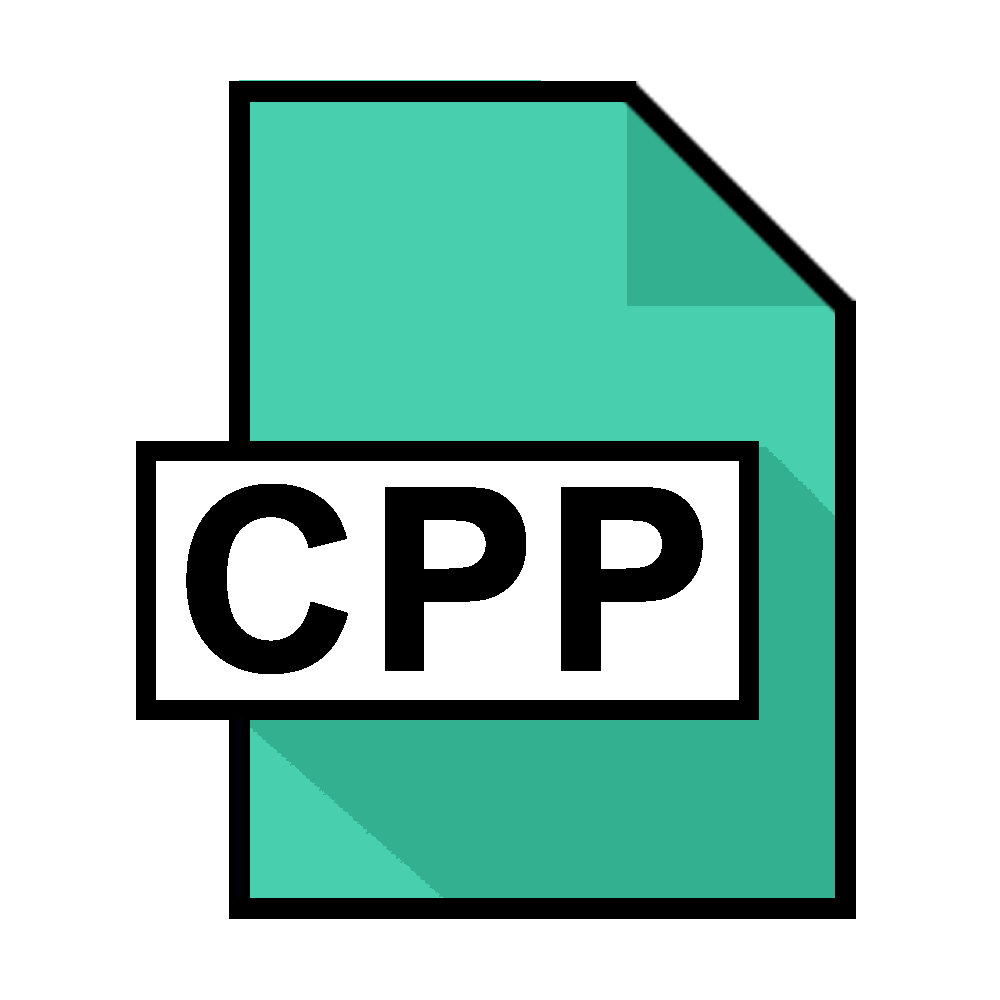
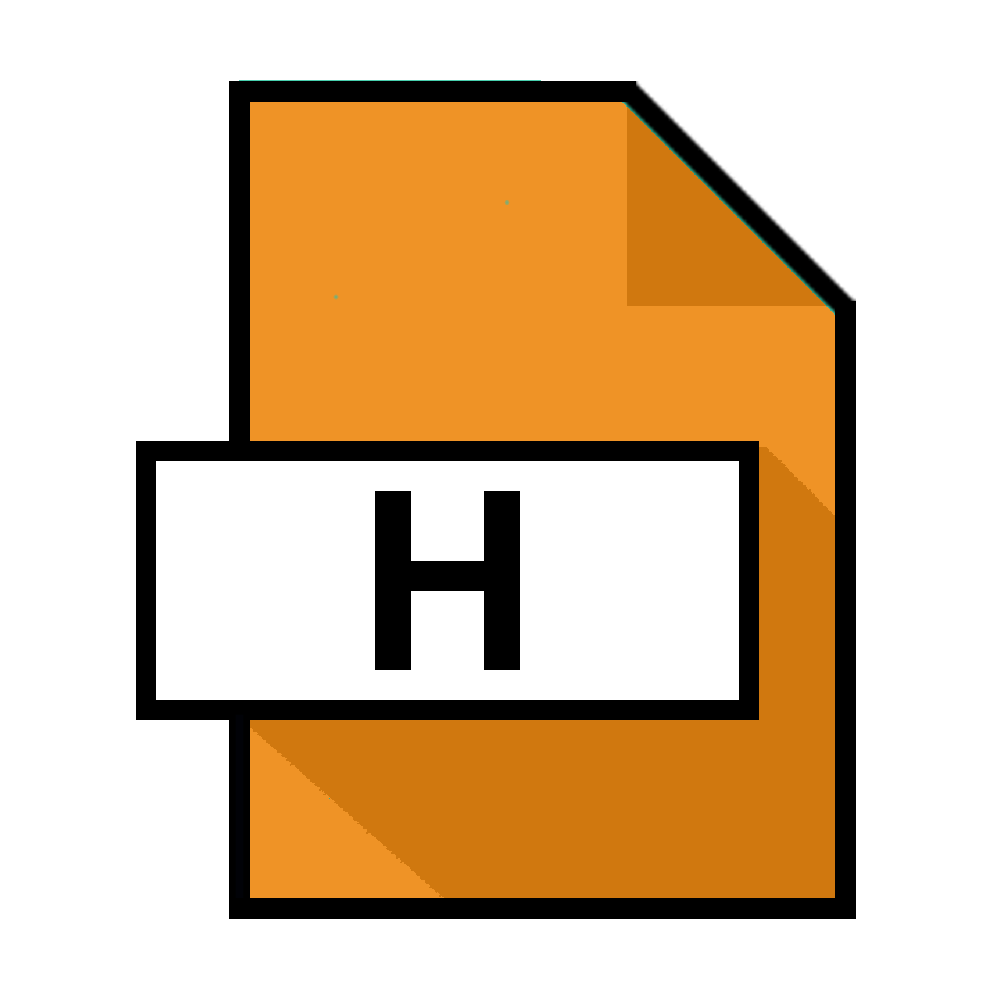
Fixed some Bugs, Implemented .h file generation as part of getCPP code function.

diff --git a/Widgets/medeawindow.cpp b/Widgets/medeawindow.cpp
@@ -2786,8 +2786,11 @@ void MedeaWindow::gotCPPForComponent(bool success, QString errorString, QString 
     if(!success){
         QMessageBox::critical(this, "XSL Transformation for CPP Error", errorString, QMessageBox::Ok);
     }else{
-        popupMultiLine->setWindowTitle(componentName + "Impl.cpp");
-        txtMultiLine->setPlainText(code);
+        QIcon icon = Theme::theme()->getImage("Actions", "getCPP");
+        if(componentName.endsWith(".h")){
+            icon = Theme::theme()->getImage("Actions", "getH");
+        }
+        addCodeViewerTab(componentName,icon, code, false);
         popupMultiLine->show();
     }
 }
@@ -3102,6 +3105,18 @@ void MedeaWindow::executeJenkinsDeployment()
     if(jenkinsManager){
         JenkinsStartJobWidget* jenkinsSJ = new JenkinsStartJobWidget(this, jenkinsManager);
         jenkinsSJ->requestJob(jobName, exportFile);
+    }
+}
+
+void MedeaWindow::closeCodeTab(int tabID)
+{
+    QWidget* content = codeViewerTabWidget->widget(tabID);
+    codeViewerTabWidget->removeTab(tabID);
+    if(content){
+        delete content;
+    }
+    if(codeViewerTabWidget->count() == 0){
+        popupMultiLine->close();
     }
 }
 
@@ -4509,6 +4524,29 @@ void MedeaWindow::updateDataTable()
     updateRightMask();
 }
 
+void MedeaWindow::addCodeViewerTab(QString tabName, QIcon tabIcon, QString content, bool editable)
+{
+    //Text Edit Box
+    CodeEditor* codeEditor = new CodeEditor(this);
+    //make tab width mode civilized
+    codeEditor->setTabStopWidth(40);
+    //Make look purrdy!
+    codeEditor->setObjectName(QString::fromUtf8("txtMultiline"));
+    codeEditor->setPlainText(content);
+
+    codeEditor->setReadOnly(!editable);
+    int index = codeViewerTabWidget->addTab(codeEditor, tabIcon, tabName);
+
+}
+
+void MedeaWindow::removeAllCodeViewerTabs()
+{
+    while(codeViewerTabWidget->count() != 0){
+        emit codeViewerTabWidget->tabCloseRequested(0);
+    }
+    popupMultiLine->close();
+}
+
 
 void MedeaWindow::updateRecentProjectsWidgets(QString topFileName)
 {
@@ -4837,27 +4875,28 @@ void MedeaWindow::setupMultiLineBox()
     popupMultiLine->setModal(true);
     //remove the '?' from the title bar
     popupMultiLine->setWindowFlags(popupMultiLine->windowFlags() & (~Qt::WindowContextHelpButtonHint));
-    popupMultiLine->setWindowIcon(getIcon("Actions", "getCPP"));
-    //Sexy Layout Stuff
-    QGridLayout *gridLayout = new QGridLayout(popupMultiLine);
+    popupMultiLine->setWindowTitle("Code Viewer");
+    popupMultiLine->setMinimumSize(600,600);
 
-    //Text Edit Box
-    txtMultiLine = new CodeEditor();
-    //make tab width mode civilized
-    txtMultiLine->setTabStopWidth(40);
+    QVBoxLayout* vLayout = new QVBoxLayout();
+    popupMultiLine->setLayout(vLayout);
 
-    //Make look purrdy!
-    txtMultiLine->setObjectName(QString::fromUtf8("txtMultiline"));
-    gridLayout->addWidget(txtMultiLine, 0, 0, 1, 1);
+    codeViewerTabWidget = new QTabWidget(this);
+    vLayout->addWidget(codeViewerTabWidget, 1);
+    codeViewerTabWidget->setTabsClosable(true);
+    connect(codeViewerTabWidget, SIGNAL(tabCloseRequested(int)), this, SLOT(closeCodeTab(int)));
+
+
     QDialogButtonBox *buttonBox = new QDialogButtonBox();
     buttonBox->setObjectName(QString::fromUtf8("buttonBox"));
     buttonBox->setOrientation(Qt::Horizontal);
     buttonBox->setStandardButtons(QDialogButtonBox::Cancel|QDialogButtonBox::Ok);
-    gridLayout->addWidget(buttonBox, 1, 0, 1, 1);
+    vLayout->addWidget(buttonBox);
 
     //hook up OK/Cancel boxes
-    connect(buttonBox,SIGNAL(accepted()),this,SLOT(dialogAccepted()));
-    connect(buttonBox,SIGNAL(rejected()),this,SLOT(dialogRejected()));
+    connect(popupMultiLine, SIGNAL(rejected()), this, SLOT(dialogRejected()));
+    connect(buttonBox,SIGNAL(accepted()), this, SLOT(dialogAccepted()));
+    connect(buttonBox,SIGNAL(rejected()), this, SLOT(dialogRejected()));
 }
 
 
@@ -4873,13 +4912,12 @@ void MedeaWindow::dataTableDoubleClicked(QModelIndex index)
 
     //Only do this if it's in column 2
     if(needsMultiLine == true) {
+        QString code = index.model()->data(index, Qt::DisplayRole).toString();
+        QString tabName = "Data <" % (index.model()->data(index, -3).toString() +">");
 
-        popupMultiLine->setWindowTitle("Editing: " + index.model()->data(index, -3).toString());
 
-        QVariant value = index.model()->data(index, Qt::DisplayRole);
-
-        txtMultiLine->setPlainText(value.toString());
-
+        QIcon icon = Theme::theme()->getImage("Actions", "getCPP");
+        addCodeViewerTab(tabName, icon, code, true);
         //Show me the box!
         popupMultiLine->show();
 
@@ -4895,9 +4933,17 @@ void MedeaWindow::dataTableDoubleClicked(QModelIndex index)
  */
 void MedeaWindow::dialogAccepted()
 {
-    //Update the table and close
-    dataTable->model()->setData(clickedModelIndex, QVariant(txtMultiLine->toPlainText()), Qt::EditRole);
-    popupMultiLine->close();
+    int currentTabID = codeViewerTabWidget->currentIndex();
+    if(currentTabID != -1){
+
+        CodeEditor* cE = dynamic_cast<CodeEditor*>(codeViewerTabWidget->widget(currentTabID));
+
+        if(cE && !cE->isReadOnly()){
+            QString value = cE->toPlainText();
+            dataTable->model()->setData(clickedModelIndex, value, Qt::EditRole);
+        }
+    }
+    removeAllCodeViewerTabs();
 }
 
 
@@ -4907,7 +4953,7 @@ void MedeaWindow::dialogAccepted()
  */
 void MedeaWindow::dialogRejected()
 {
-    popupMultiLine->close();
+    removeAllCodeViewerTabs();
 }
 
 QStringList MedeaWindow::fileSelector(QString title, QString fileString, QString defaultSuffix, bool open, bool allowMultiple, QString fileName)

diff --git a/CUTS/cutsmanager.cpp b/CUTS/cutsmanager.cpp
@@ -219,32 +219,14 @@ void CUTSManager::executeCPPCompilation(QString makePath)
 
 void CUTSManager::getCPPForComponent(QString graphmlPath, QString component)
 {
-    //Start a QProcess for this program
-    QProcess* process = new QProcess();
-    process->setWorkingDirectory(XSLTransformPath);
+    QStringList cppArgs, hArgs;
+    cppArgs << "File" << component + "Impl.cpp";
+    hArgs << "File" << component + "Impl.h";
+    QPair<int, QPair<QString, QString>> cppCode = runLocalTransform(graphmlPath, "graphml2cpp.xsl", cppArgs);
+    QPair<int, QPair<QString, QString>> hCode = runLocalTransform(graphmlPath, "graphml2h.xsl", hArgs);
 
-    //Construct the arguments for the xsl transform
-    QStringList arguments;
-    arguments << "-jar" << xalanJPath + "xalan.jar";
-    arguments << "-in" << graphmlPath;
-    arguments << "-xsl" << XSLTransformPath + "graphml2cpp.xsl";
-    arguments << "-param" << "File" << component + "Impl.cpp";
-
-    //Construct a wait loop to make sure this transform happens first.
-    QEventLoop waitLoop;
-    connect(process, SIGNAL(finished(int)), &waitLoop, SLOT(quit()));
-
-    //Execute the QProcess
-    process->start("java", arguments);
-
-    //Wait for The process to exit the loop.
-    waitLoop.exec();
-
-    int code = process->exitCode();
-
-    QString commandOutput = process->readAllStandardOutput();
-    QString errorString = process->readAllStandardError();
-    emit gotCPPForComponent(code == 0,errorString, component, commandOutput);
+    emit gotCPPForComponent(cppCode.first == 0, cppCode.second.second, component + "Impl.cpp", cppCode.second.first);
+    emit gotCPPForComponent(hCode.first == 0, hCode.second.second, component + "Impl.h", hCode.second.first);
 }
 
 void CUTSManager::executeXMETransform(QString xmePath, QString outputFilePath)
@@ -558,6 +540,40 @@ void CUTSManager::processGraphml(QString graphmlPath, QString outputPath)
 
     //Start Queue
     processQueue();
+}
+
+QPair<int, QPair<QString, QString> > CUTSManager::runLocalTransform(QString graphmlPath, QString transformName, QStringList params)
+{
+    QPair<int, QPair<QString, QString> > status;
+
+    //Start a QProcess for this program
+    QProcess* process = new QProcess();
+    process->setWorkingDirectory(XSLTransformPath);
+
+    //Construct the arguments for the xsl transform
+    QStringList arguments;
+    arguments << "-jar" << xalanJPath + "xalan.jar";
+    arguments << "-in" << graphmlPath;
+    arguments << "-xsl" << XSLTransformPath + transformName;
+    if(!params.isEmpty()){
+        arguments << "-param";
+        arguments.append(params);
+    }
+
+    //Construct a wait loop to make sure this transform happens first.
+    QEventLoop waitLoop;
+    connect(process, SIGNAL(finished(int)), &waitLoop, SLOT(quit()));
+
+    //Execute the QProcess
+    process->start("java", arguments);
+    //Wait for The process to exit the loop.
+    waitLoop.exec();
+
+    status.first = process->exitCode();
+    status.second.first = process->readAllStandardOutput();
+    status.second.second = process->readAllStandardError();
+    delete process;
+    return status;
 }
 
 

diff --git a/Controller/controller.cpp b/Controller/controller.cpp
@@ -743,8 +743,10 @@ void NewController::constructWorkerProcessNode(int parentID, QString workerName,
     if(processFunction){
         processFunction->setDataValue("x", position.x());
         processFunction->setDataValue("y", position.y());
-        Key* protectedKey = constructKey("dataProtected", QVariant::Bool, Entity::EK_NODE);
-        attachData(processFunction, new Data(protectedKey, true));
+        if(!(workerName == "WE_UTE" && (operationName == "cppCode" || operationName == "cppHeader"))){
+            Key* protectedKey = constructKey("dataProtected", QVariant::Bool, Entity::EK_NODE);
+            attachData(processFunction, new Data(protectedKey, true));
+        }
     }
 
     emit controller_ActionFinished();

diff --git a/Widgets/medeawindow.h b/Widgets/medeawindow.h
@@ -142,6 +142,7 @@ public slots:
     void executeJenkinsDeployment();
 
 private slots:
+    void closeCodeTab(int tabID);
     void CUTSOutputPathChanged(QString path);
     void themeChanged();
 
@@ -335,6 +336,8 @@ private:
     void updateDataTable();
 
 
+    void addCodeViewerTab(QString tabName, QIcon tabIcon, QString content, bool editable);
+    void removeAllCodeViewerTabs();
 
 
     QString applicationDirectory;
@@ -594,7 +597,8 @@ private:
 
     //multi-line popup for QTableView (VARIABLES)
     QDialog *popupMultiLine;
-    CodeEditor *txtMultiLine;
+    QTabWidget* codeViewerTabWidget;
+    //CodeEditor *txtMultiLine;
     QModelIndex clickedModelIndex;
 
     JenkinsManager* jenkinsManager;

diff --git a/CUTS/cutsmanager.h b/CUTS/cutsmanager.h
@@ -90,6 +90,8 @@ private:
 
 
 private:
+
+    QPair<int, QPair<QString, QString> > runLocalTransform(QString graphmlPath, QString transformName, QStringList params);
     bool ensureDirectory(QString dirPath);
     QString monitorProcess(QProcess* process);
     bool checkForCPPCompiler();

diff --git a/Jenkins/jenkinsmanager.h b/Jenkins/jenkinsmanager.h
@@ -22,7 +22,6 @@ class JenkinsManager: public QObject
     Q_OBJECT
 public:
     JenkinsManager(QString cliBinaryPath);
-    ~JenkinsManager();
     QString getUsername();
 
     void setURL(QString url);
